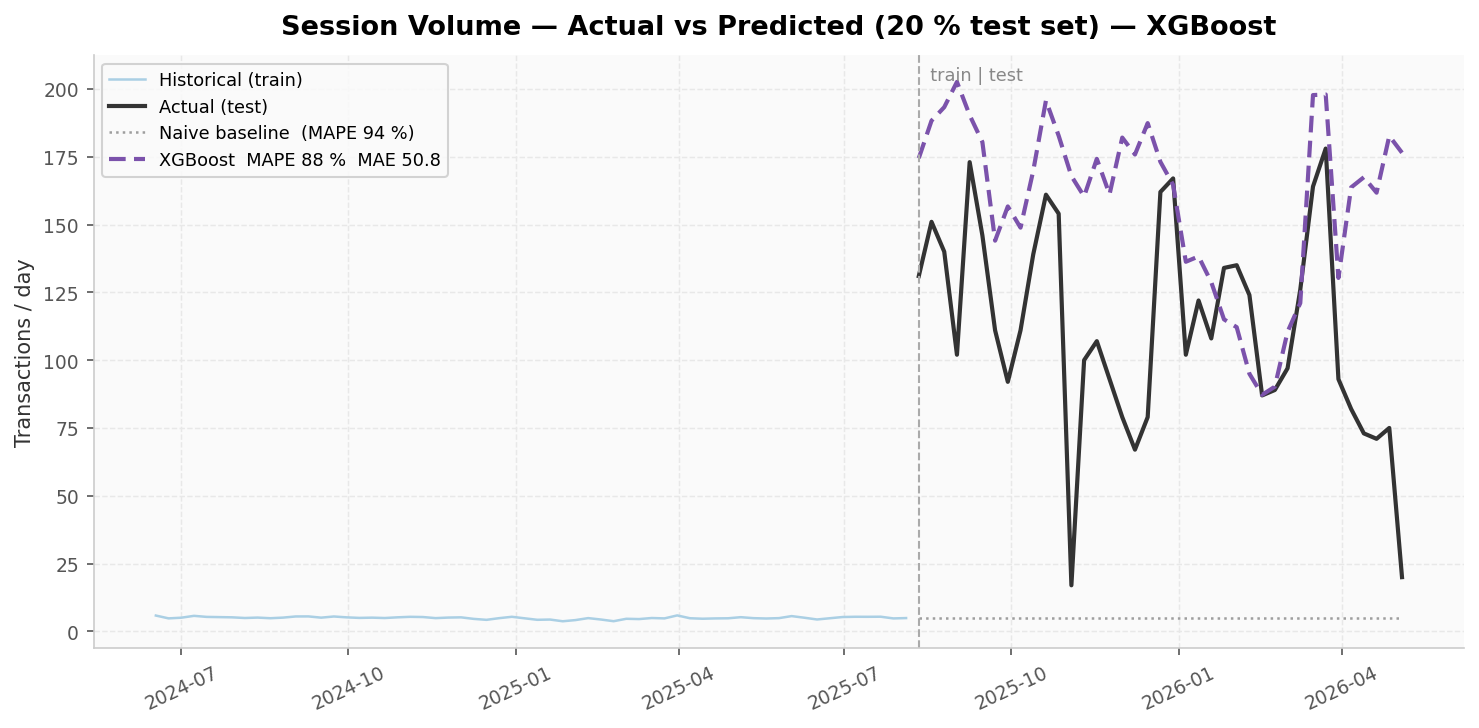
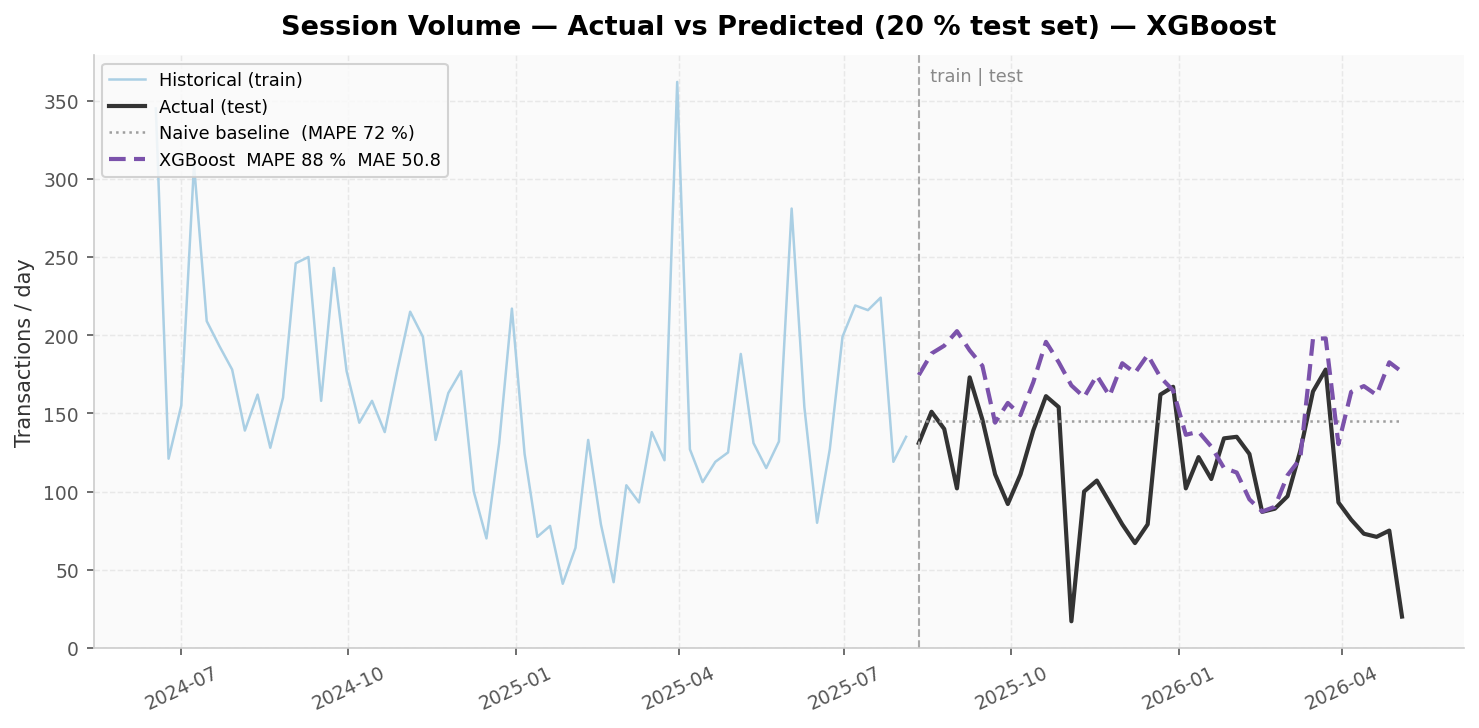
fix: don't mutate train['y'] to log-scale before returning from plot helper
_prophet_test_preds was log-transforming train['y'] in place when log_y=True,
which leaked log-scale values into the shared train DataFrame used by the
SARIMA and XGBoost accuracy plots — the historical-data line rendered near
zero instead of the actual revenue range. Now fits on a fit_train copy and
returns the unmodified train.

diff --git a/gamefydb/figures.py b/gamefydb/figures.py
@@ -165,13 +165,14 @@ def _prophet_test_preds(df, split, freq='D', log_y=False):
     n = len(df)
     cut = int(n * split)
     train, test = df.iloc[:cut].copy(), df.iloc[cut:].copy()
+    fit_train = train.copy()
     if log_y:
-        train['y'] = np.log1p(train['y'])
+        fit_train['y'] = np.log1p(fit_train['y'])
     holiday_df = _build_holiday_df(df['ds'].min(), df['ds'].max())
     m = Prophet(interval_width=0.8,
                 holidays=holiday_df if holiday_df is not None else None,
                 holidays_prior_scale=20.0)
-    m.fit(train)
+    m.fit(fit_train)
     future = m.make_future_dataframe(periods=len(test), freq=freq)
     fc = m.predict(future)
     if log_y:
